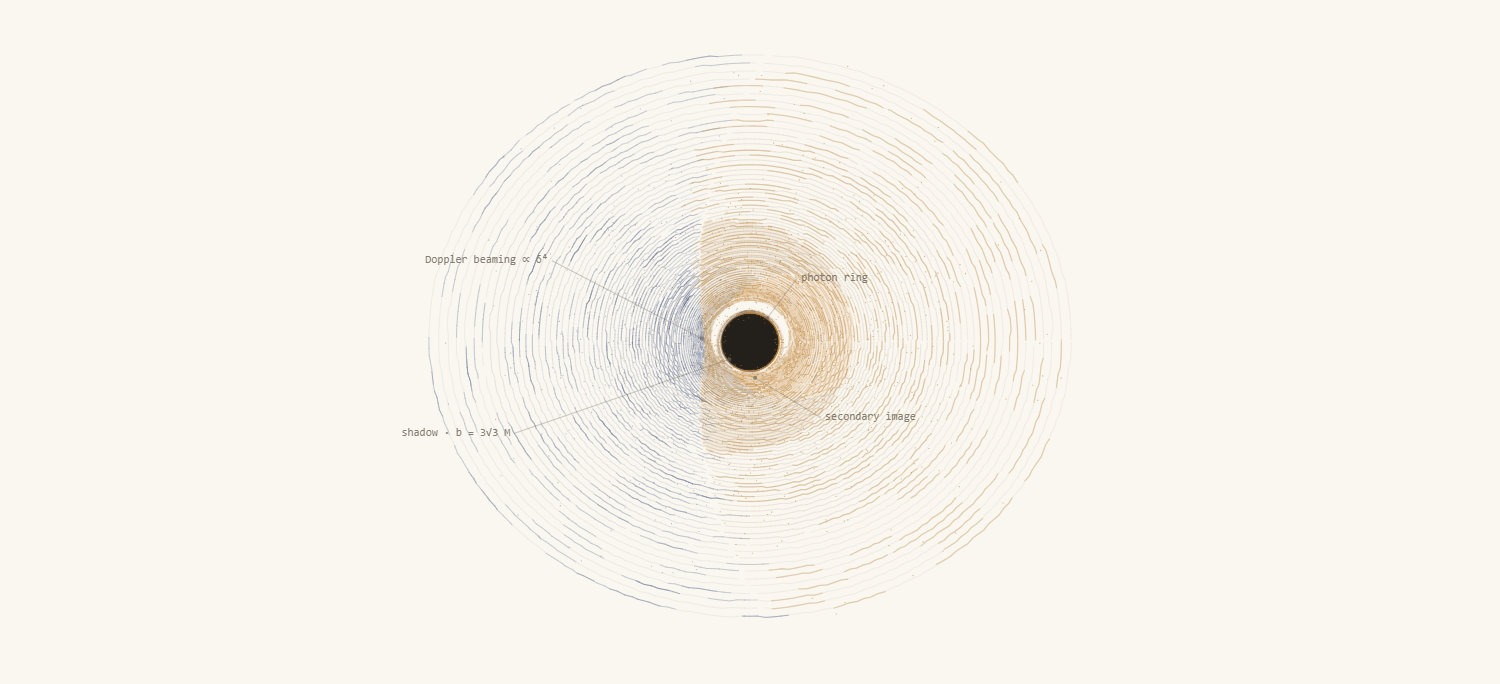
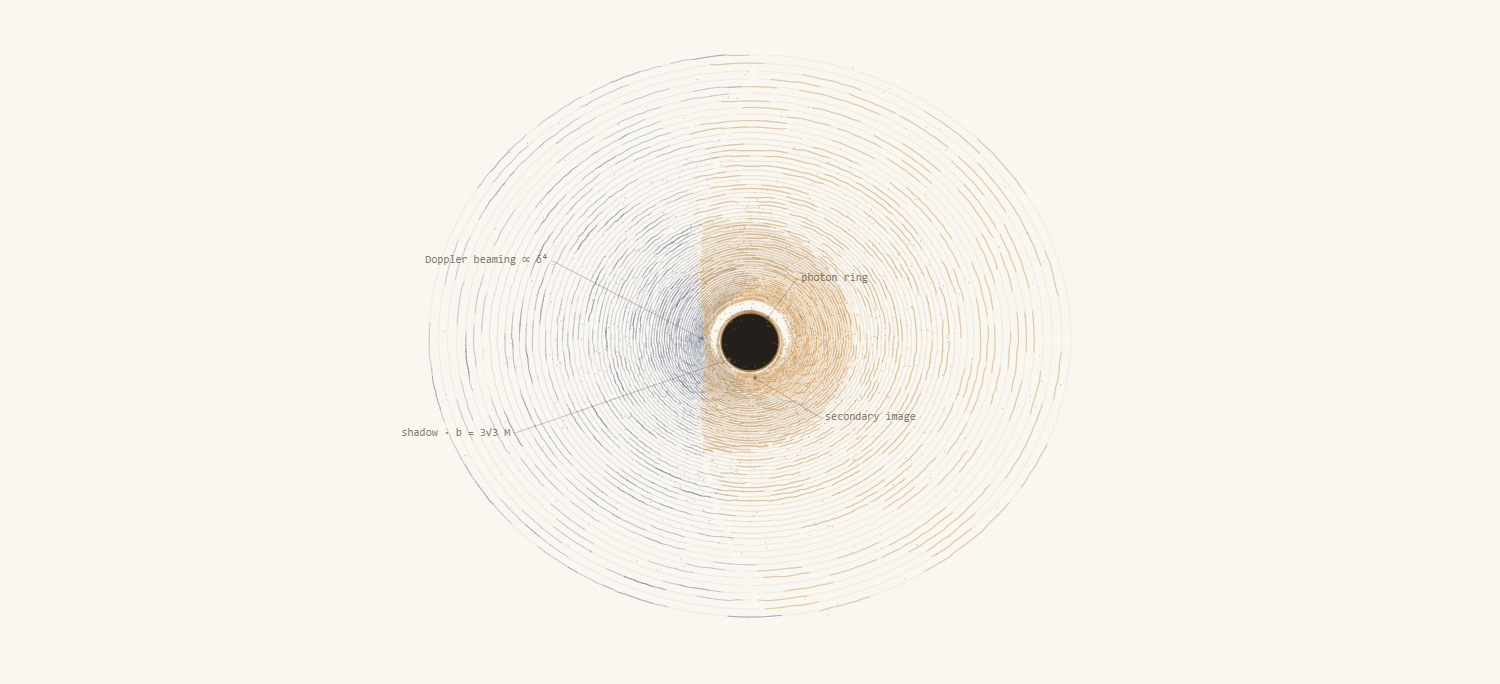
proto: smooth continuous lines, faded infall threads, labels yield at edge-on
- Bridge 1-2 cell occupancy holes whose shores sit within the caustic
  threshold: honest reconstruction of a provably continuous curve, and
  the fix for the dashes at near-edge-on inclinations. Interpolation
  never crosses a caustic (the JUMP test forbids it).
- All polylines now stroke as quadratic curves through sample midpoints
  via a shared segment buffer: per-cell kinks melt with no new geometry.
- Sky sampling raised (NPSI 900 -> 1050, outer-b 170 -> 210) for the
  edge-on case the owner tested.
- Infall trails split into three alpha tiers that thin as material is
  dragged off the disk -- heat lives at the knot, not along the thread.
  Kills the gold-nest reading when the cursor grazes from empty paper.
- Annotations fade out above 84 deg where the dome needs the room.

Idle 1.4-1.6 ms, lens 5.9-6.8 ms.

diff --git a/prototypes/blackhole.html b/prototypes/blackhole.html
@@ -84,7 +84,7 @@
 const M = 1, R_IN = 6, R_OUT = 58;
 const B_CRIT = 3 * Math.sqrt(3);
 const DPHI = 0.012, PHI_MAX = Math.PI * 3.4;
-const NPSI = 900, NR = 74, NPH = 260;
+const NPSI = 1050, NR = 74, NPH = 260;
 const B_MIN = 1.2, B_MAX = 62;
 const LOGSPAN = Math.log(R_OUT / R_IN);
 const CELLS = NR * NPH;
@@ -168,8 +168,21 @@ function buildBArray() {
   for (let i = 0; i < 120; i++) {
     a.push(B_CRIT + Math.exp(Math.log(0.006) + (Math.log(8) - Math.log(0.006)) * i / 119));
   }
-  for (let i = 0; i < 170; i++) a.push(B_CRIT + 8 + (B_MAX - B_CRIT - 8) * i / 169);
+  for (let i = 0; i < 210; i++) a.push(B_CRIT + 8 + (B_MAX - B_CRIT - 8) * i / 209);
   return a;
+}
+
+// smooth polyline out of the shared segment buffer: quadratic curves through sample
+// midpoints, so the per-cell kinks melt without inventing any new geometry
+const SEG = new Float32Array(NPH * 2 + 8);
+function strokeSmooth(p, n) {
+  p.moveTo(SEG[0], SEG[1]);
+  if (n === 2) { p.lineTo(SEG[2], SEG[3]); return; }
+  for (let i = 1; i < n - 1; i++) {
+    const x = SEG[i * 2], y = SEG[i * 2 + 1];
+    p.quadraticCurveTo(x, y, (x + SEG[i * 2 + 2]) / 2, (y + SEG[i * 2 + 3]) / 2);
+  }
+  p.lineTo(SEG[(n - 1) * 2], SEG[(n - 1) * 2 + 1]);
 }
 
 // ---- build: trace the sky, fill the (r, azimuth) grids, cut runs ---------------
@@ -223,6 +236,37 @@ function build(incDeg) {
           if (flux > gMax) gMax = flux;
         }
         break;   // optically thick: first material hit occludes the rest
+      }
+    }
+  }
+
+  // Bridge 1-2 cell holes whose shores agree. The fixed sky sampling undersamples
+  // exactly where near-edge-on compression packs many disk cells into few rays, and
+  // those holes fragmented the lines into dashes. Interpolating across a hole whose
+  // endpoints sit within the caustic threshold is honest reconstruction of a curve
+  // that is provably continuous there — invention would be filling ACROSS a caustic,
+  // which the JUMP test forbids.
+  for (let s = 0; s < 2; s++) {
+    for (let ri = 0; ri < NR; ri++) {
+      const base = ri * NPH;
+      for (let p = 1; p < NPH - 1; p++) {
+        const idx = base + p;
+        if (go[s][idx] || !go[s][idx - 1]) continue;
+        const width = go[s][idx + 1] ? 0 : (p + 2 < NPH && go[s][idx + 2] ? 1 : -1);
+        if (width < 0) continue;
+        const L = idx - 1, R = idx + 1 + width;
+        const dx = gux[s][R] - gux[s][L], dy = guy[s][R] - guy[s][L];
+        if (dx * dx + dy * dy > JUMP * JUMP) continue;
+        for (let q = 0; q <= width; q++) {
+          const t = (q + 1) / (width + 2);
+          const j = idx + q;
+          gux[s][j] = gux[s][L] + dx * t;
+          guy[s][j] = guy[s][L] + dy * t;
+          gfx[s][j] = gfx[s][L] + (gfx[s][R] - gfx[s][L]) * t;
+          gG[s][j] = gG[s][L] + (gG[s][R] - gG[s][L]) * t;
+          go[s][j] = 1;
+        }
+        p += width + 1;
       }
     }
   }
@@ -336,30 +380,36 @@ function drawBase(g, lensOn) {
     const p = paths[k] || (paths[k] = new Path2D());
     const hue = (k / 5) | 0, flux = k % 5;
     const wantNavy = k === 19, wantBloomC = k >= 18, wantBloomW = hue <= 1 && flux >= 3;
-    let started = false, psx = 0, psy = 0, pnx = 0, pny = 0, prd = 0;
+    let segN = 0, pnx = 0, pny = 0, prd = 0;
+    const flush = () => {
+      if (segN >= 2) {
+        strokeSmooth(p, segN);
+        if (wantNavy) strokeSmooth(navy, segN);
+        if (wantBloomC) strokeSmooth(bloomC, segN);
+        if (wantBloomW) strokeSmooth(bloomW, segN);
+      }
+      segN = 0;
+    };
     for (let i = i0; i <= i1; i++) {
       const idx = base + i;
       let x = toX(gux[s][idx]), y = toY(guy[s][idx]);
-      let nx = 0, ny = 0, rd = 0;
       if (lensOn) {
         const rawX = x, rawY = y;
         lensXY(x, y, LP);
-        rd = LP[2]; nx = (rawX - mx) / rd; ny = (rawY - my) / rd;
+        const rd = LP[2], nx = (rawX - mx) / rd, ny = (rawY - my) / rd;
         x = LP[0]; y = LP[1];
-        if (started) {
+        if (segN > 0) {
           // break where the lens tears the curve: endpoints on opposite sides of
           // the cursor, or a segment stretched far beyond its unlensed length
           const dRaw = Math.hypot(rawX - (mx + pnx * prd), rawY - (my + pny * prd));
-          const dMap = Math.hypot(x - psx, y - psy);
-          if (nx * pnx + ny * pny < 0.2 || dMap > Math.max(60 * DPR, dRaw * 8)) started = false;
+          const dMap = Math.hypot(x - SEG[(segN - 1) * 2], y - SEG[(segN - 1) * 2 + 1]);
+          if (nx * pnx + ny * pny < 0.2 || dMap > Math.max(60 * DPR, dRaw * 8)) flush();
         }
+        pnx = nx; pny = ny; prd = rd;
       }
-      if (started) p.lineTo(x, y); else { p.moveTo(x, y); started = true; }
-      if (wantNavy) { if (i === i0) navy.moveTo(x, y); else navy.lineTo(x, y); }
-      if (wantBloomC) { if (i === i0) bloomC.moveTo(x, y); else bloomC.lineTo(x, y); }
-      if (wantBloomW) { if (i === i0) bloomW.moveTo(x, y); else bloomW.lineTo(x, y); }
-      psx = x; psy = y; pnx = nx; pny = ny; prd = rd;
+      SEG[segN * 2] = x; SEG[segN * 2 + 1] = y; segN++;
     }
+    flush();
   }
 
   g.lineCap = 'round'; g.lineJoin = 'round';
@@ -390,15 +440,16 @@ function drawDyn(g, t, animate, dt, lensOn) {
     // PREVIOUS streak left off in the other path — the fan of stray chords.
     const headIdx = base + ((((ph % 1) + 1) % 1) * NPH | 0);
     const path = go[s][headIdx] && gG[s][headIdx] < GH[1] ? warm : cool;
-    let started = false, psx = 0, psy = 0, pux = 0, puy = 0, pnx = 0, pny = 0, prd = 0;
+    let segN = 0, pux = 0, puy = 0, pnx = 0, pny = 0, prd = 0;
+    const flush = () => { if (segN >= 2) strokeSmooth(path, segN); segN = 0; };
     for (let q = 0; q < FLOW_LEN; q++) {
       const p = (((ph + q / NPH) % 1) * NPH) | 0;
       const idx = base + p;
-      if (!go[s][idx]) { started = false; continue; }
+      if (!go[s][idx]) { flush(); continue; }
       const uxv = gux[s][idx], uyv = guy[s][idx];
-      if (started) {
+      if (segN > 0) {
         const dx = uxv - pux, dy = uyv - puy;
-        if (dx * dx + dy * dy > JUMP * JUMP) started = false;
+        if (dx * dx + dy * dy > JUMP * JUMP) flush();
       }
       pux = uxv; puy = uyv;
       let x = toX(uxv), y = toY(uyv);
@@ -407,13 +458,13 @@ function drawDyn(g, t, animate, dt, lensOn) {
         lensXY(x, y, LP);
         const rd = LP[2], nx = (rawX - mx) / rd, ny = (rawY - my) / rd;
         x = LP[0]; y = LP[1];
-        if (started && (nx * pnx + ny * pny < 0.2
-          || Math.hypot(x - psx, y - psy) > Math.max(60 * DPR, Math.hypot(rawX - (mx + pnx * prd), rawY - (my + pny * prd)) * 8))) started = false;
+        if (segN > 0 && (nx * pnx + ny * pny < 0.2
+          || Math.hypot(x - SEG[(segN - 1) * 2], y - SEG[(segN - 1) * 2 + 1]) > Math.max(60 * DPR, Math.hypot(rawX - (mx + pnx * prd), rawY - (my + pny * prd)) * 8))) flush();
         pnx = nx; pny = ny; prd = rd;
       }
-      if (started) path.lineTo(x, y); else { path.moveTo(x, y); started = true; }
-      psx = x; psy = y;
+      SEG[segN * 2] = x; SEG[segN * 2 + 1] = y; segN++;
     }
+    flush();
   }
   g.lineCap = 'round';
   g.strokeStyle = 'rgba(60,78,120,0.22)'; g.lineWidth = 1.0 * DPR; g.stroke(cool);
@@ -424,7 +475,10 @@ function drawDyn(g, t, animate, dt, lensOn) {
   // captured and spiral in, heating as they fall
   const dCool = new Path2D(), dWarm = new Path2D();
   const bCool = new Path2D(), bWarm = new Path2D(), counter = new Path2D();
-  const fall = new Path2D();
+  // Infall trails thin as material is dragged off the disk into the void — the heat
+  // shows at the knot on the mass, not along the thread. One bright path made a
+  // dense gold nest whenever the cursor grazed the disk from empty paper.
+  const fallA = new Path2D(), fallB = new Path2D(), fallC = new Path2D();
   const sz = Math.max(1, 1.1 * DPR);
   let falling = 0;
   for (let n = 0; n < NDOTS; n++) {
@@ -432,6 +486,7 @@ function drawDyn(g, t, animate, dt, lensOn) {
       falling++;
       dCap[n] += dt / INFALL_T;
       if (dCap[n] >= 1) { dCap[n] = 0; continue; }
+      const fall = dCap[n] < 0.35 ? fallA : dCap[n] < 0.7 ? fallB : fallC;
       const ang0 = Math.atan2(dOy[n] - my, dOx[n] - mx);
       const r0 = Math.hypot(dOx[n] - mx, dOy[n] - my);
       let started = false;
@@ -483,9 +538,10 @@ function drawDyn(g, t, animate, dt, lensOn) {
   g.fillStyle = 'rgba(176,118,44,0.80)'; g.fill(bWarm);
   g.fillStyle = 'rgba(100,104,124,0.22)'; g.fill(counter);
   if (falling) {
-    g.strokeStyle = `rgba(${EMBER},${(0.55 * influence).toFixed(3)})`;
     g.lineWidth = 1.2 * DPR;
-    g.stroke(fall);
+    g.strokeStyle = `rgba(${EMBER},${(0.50 * influence).toFixed(3)})`; g.stroke(fallA);
+    g.strokeStyle = `rgba(${EMBER},${(0.28 * influence).toFixed(3)})`; g.stroke(fallB);
+    g.strokeStyle = `rgba(${EMBER},${(0.13 * influence).toFixed(3)})`; g.stroke(fallC);
   }
   lastFalling = falling;
 
@@ -514,7 +570,10 @@ const NOTES = [
   { text: 'secondary image', ax: 0.9, ay: 6.4, lx: 66, ly: 40 },
 ];
 function drawNotes(g) {
-  const a = Math.max(0, 0.9 - 0.6 * influence);
+  // near edge-on the dome grows up into the label positions (offsets were tuned at
+  // ~82°); above 84° the drawing needs the room more than the reader needs the labels
+  const incFade = Math.min(1, Math.max(0, (84 - inc) / 4));
+  const a = Math.max(0, 0.9 - 0.6 * influence) * incFade;
   if (a < 0.05) return;
   g.font = `${11 * DPR}px ui-monospace, SFMono-Regular, Menlo, monospace`;
   g.textBaseline = 'middle';
